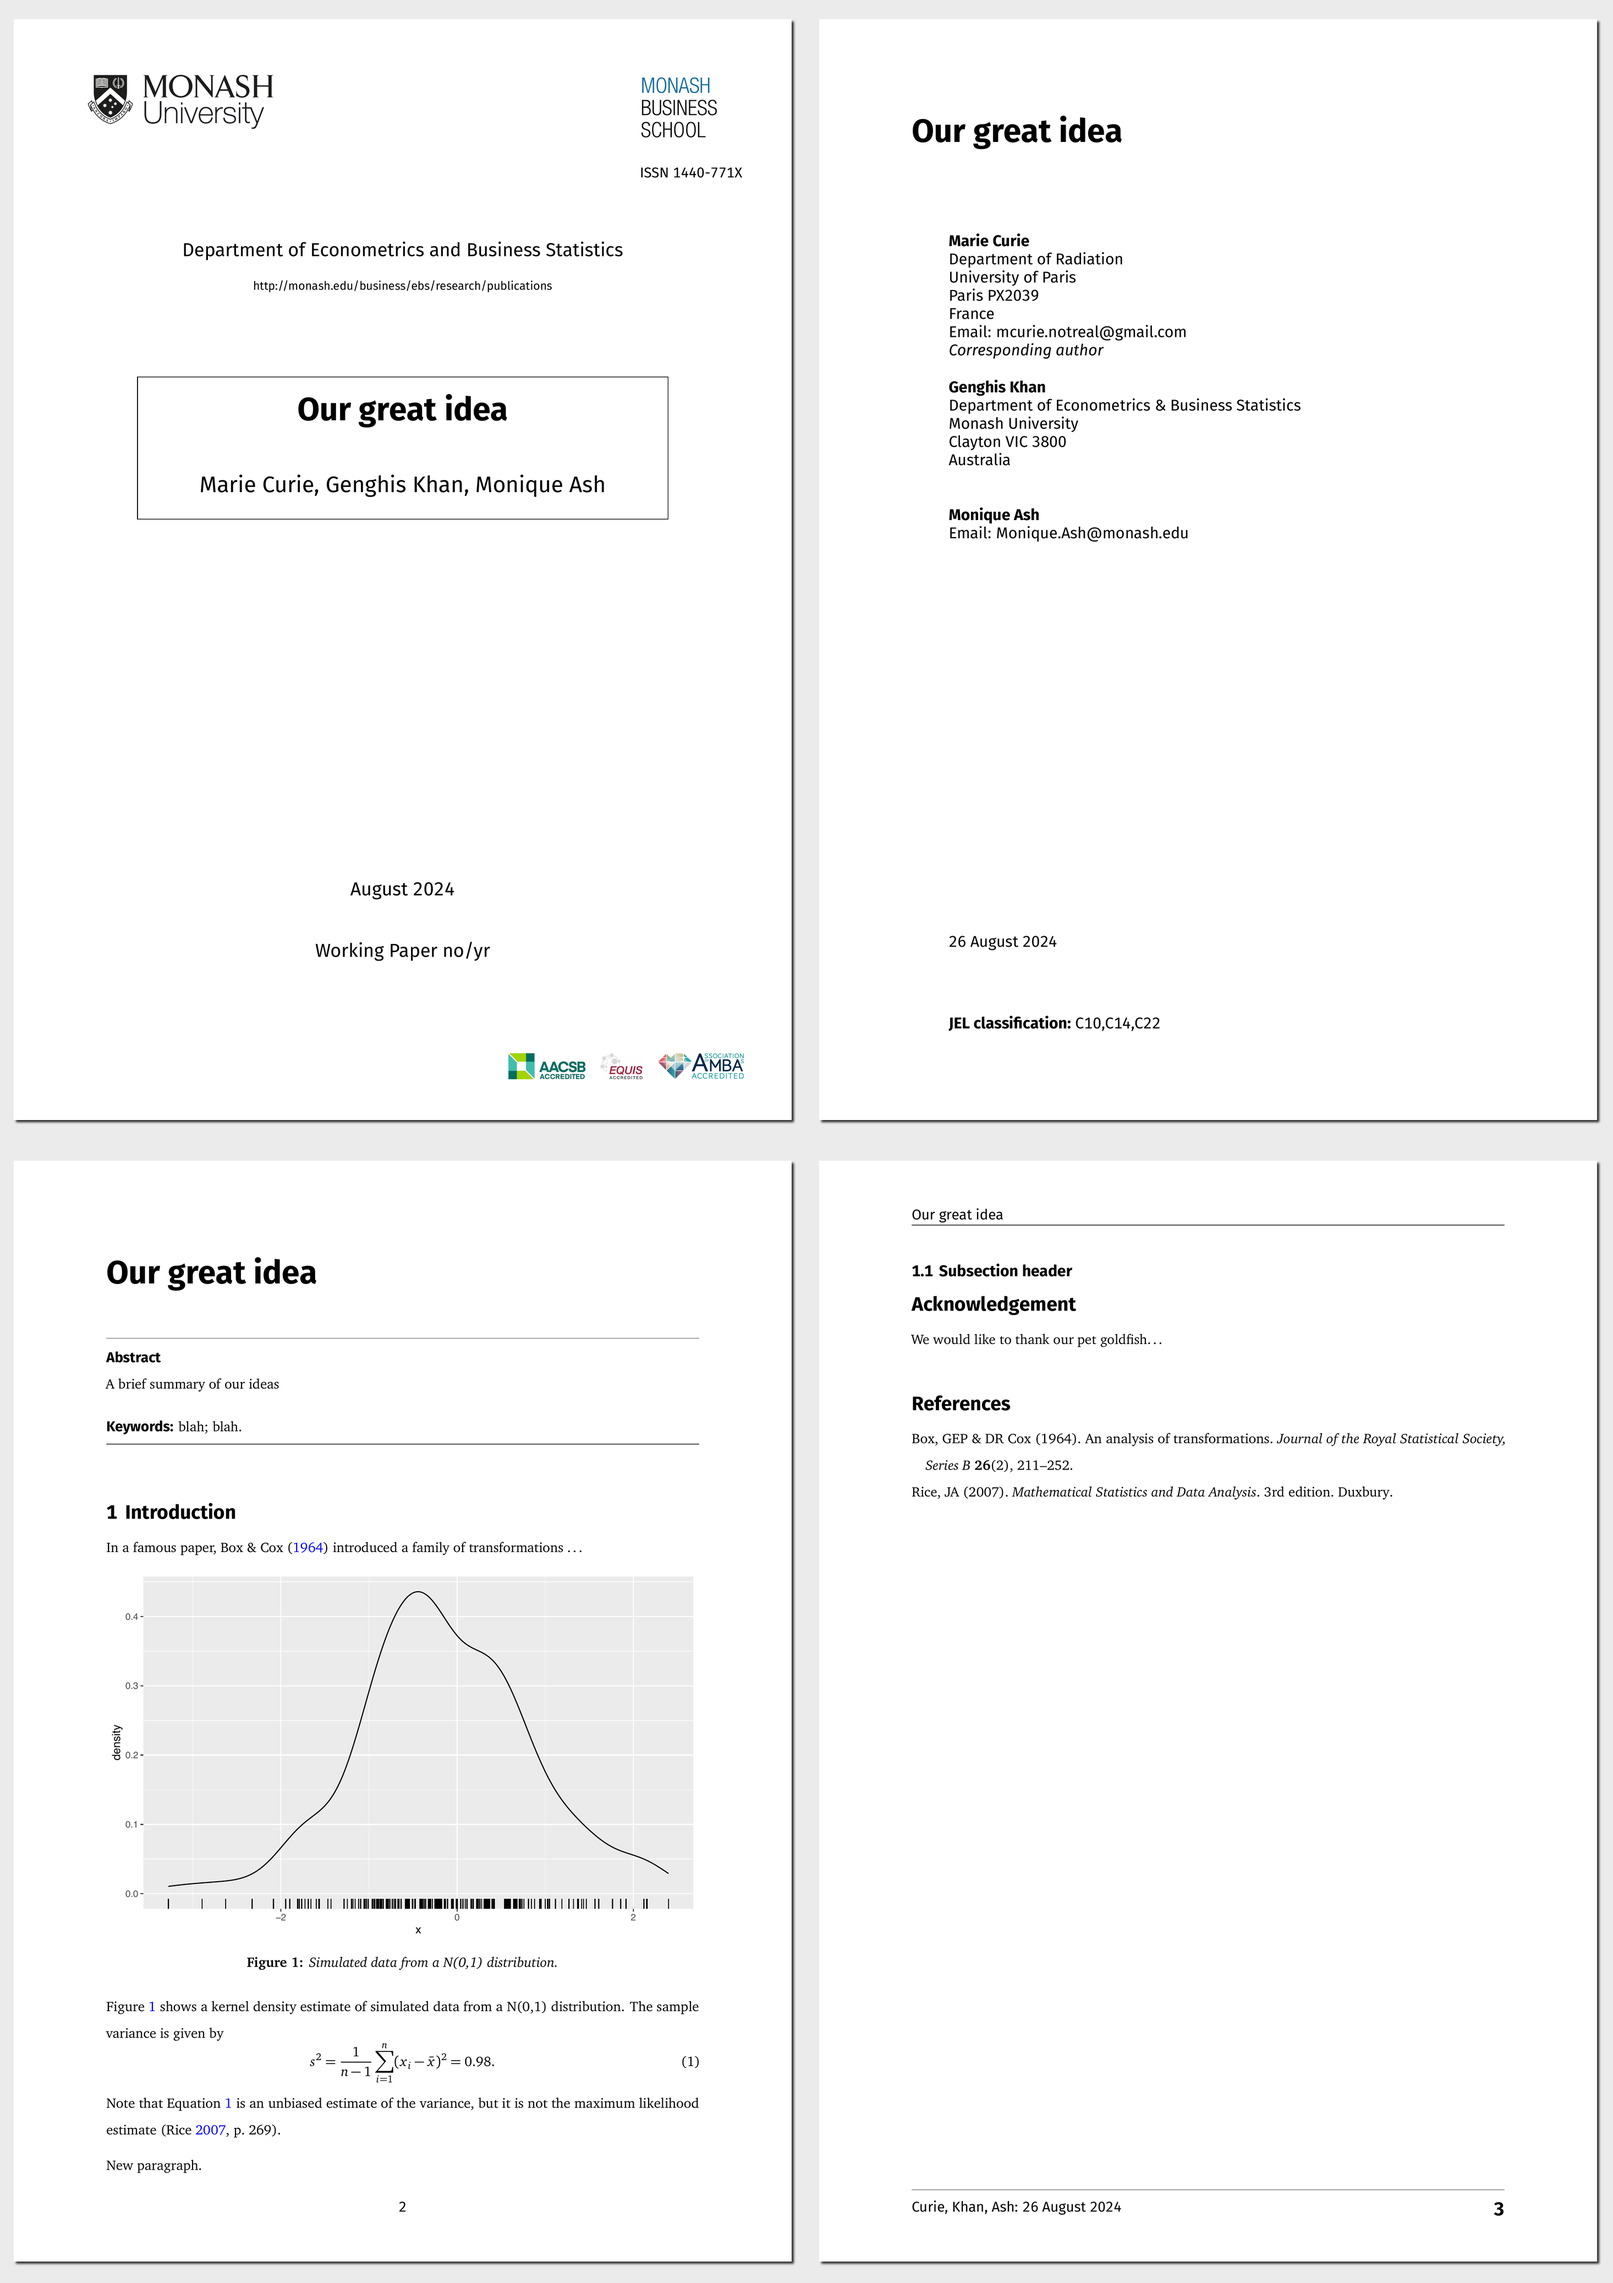
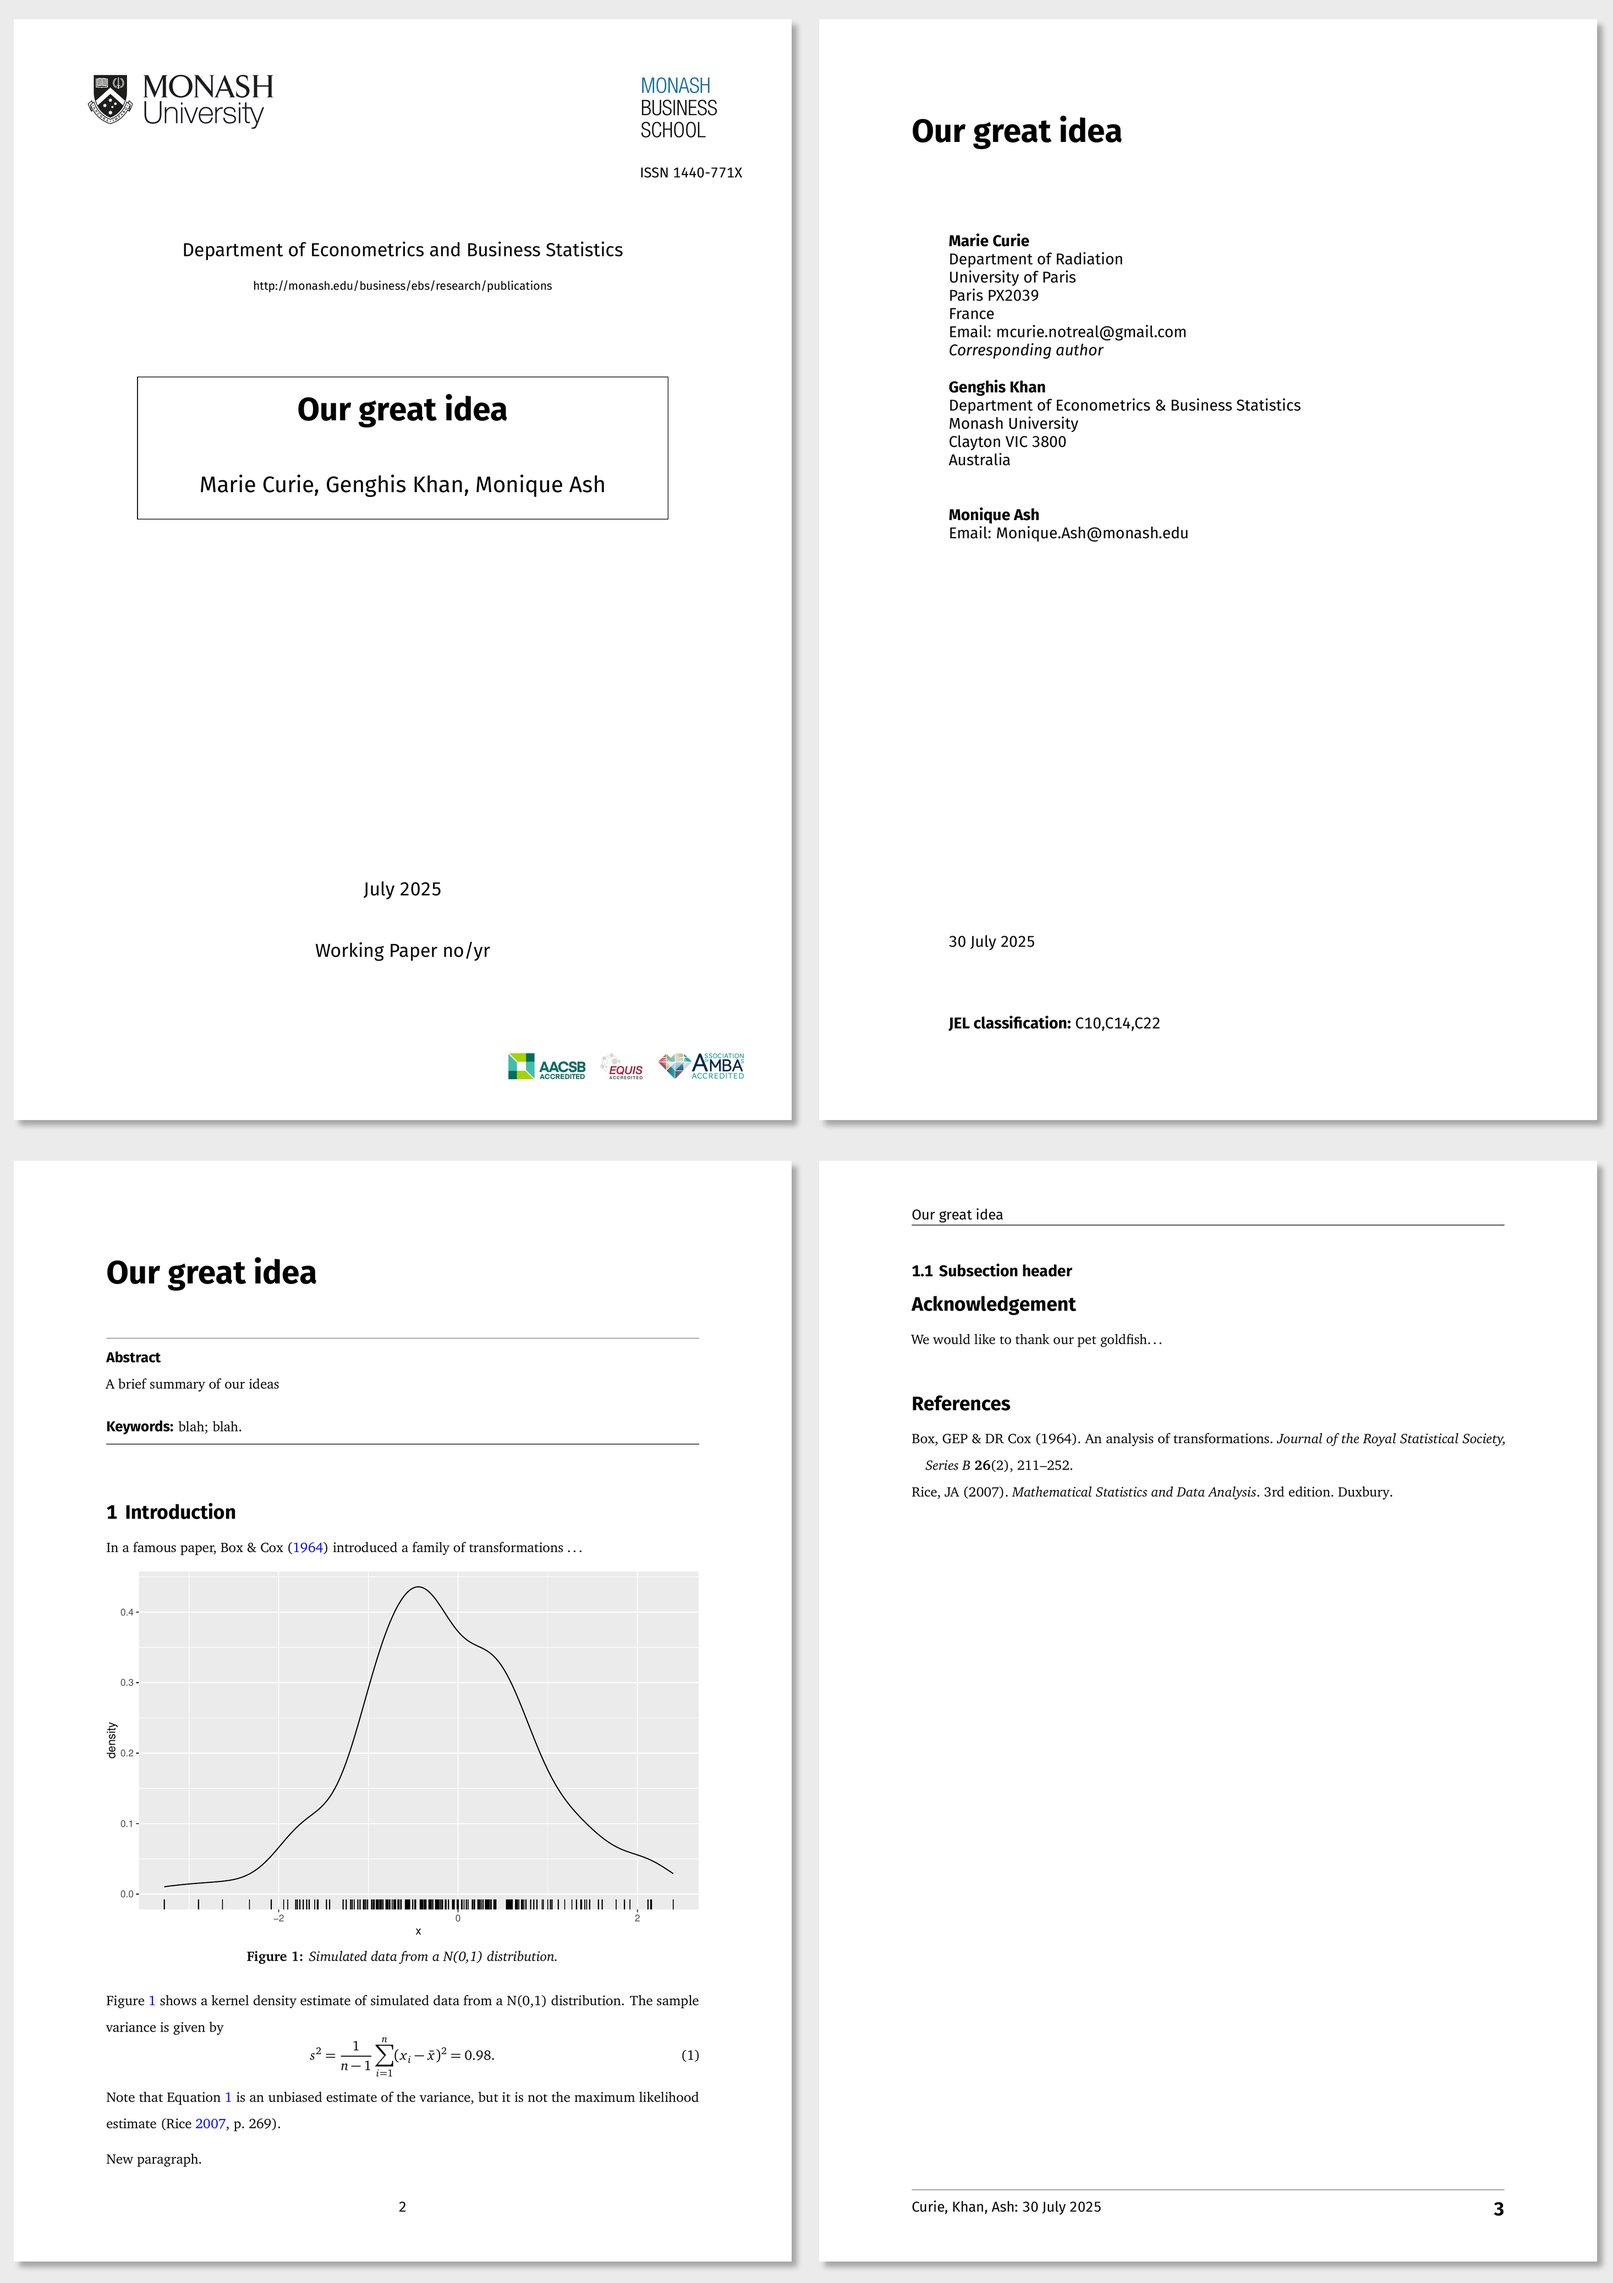
Tighter mono font

diff --git a/_extensions/wp/before-title.tex b/_extensions/wp/before-title.tex
@@ -8,7 +8,7 @@
 %% FONT
 \usepackage{bera}
 \usepackage[charter]{mathdesign}
-\usepackage[scale=0.9]{sourcecodepro}
+%\usepackage[scale=0.9]{sourcecodepro}
 \usepackage[lf,t]{FiraSans}
 
 %% HEADERS AND FOOTERS
